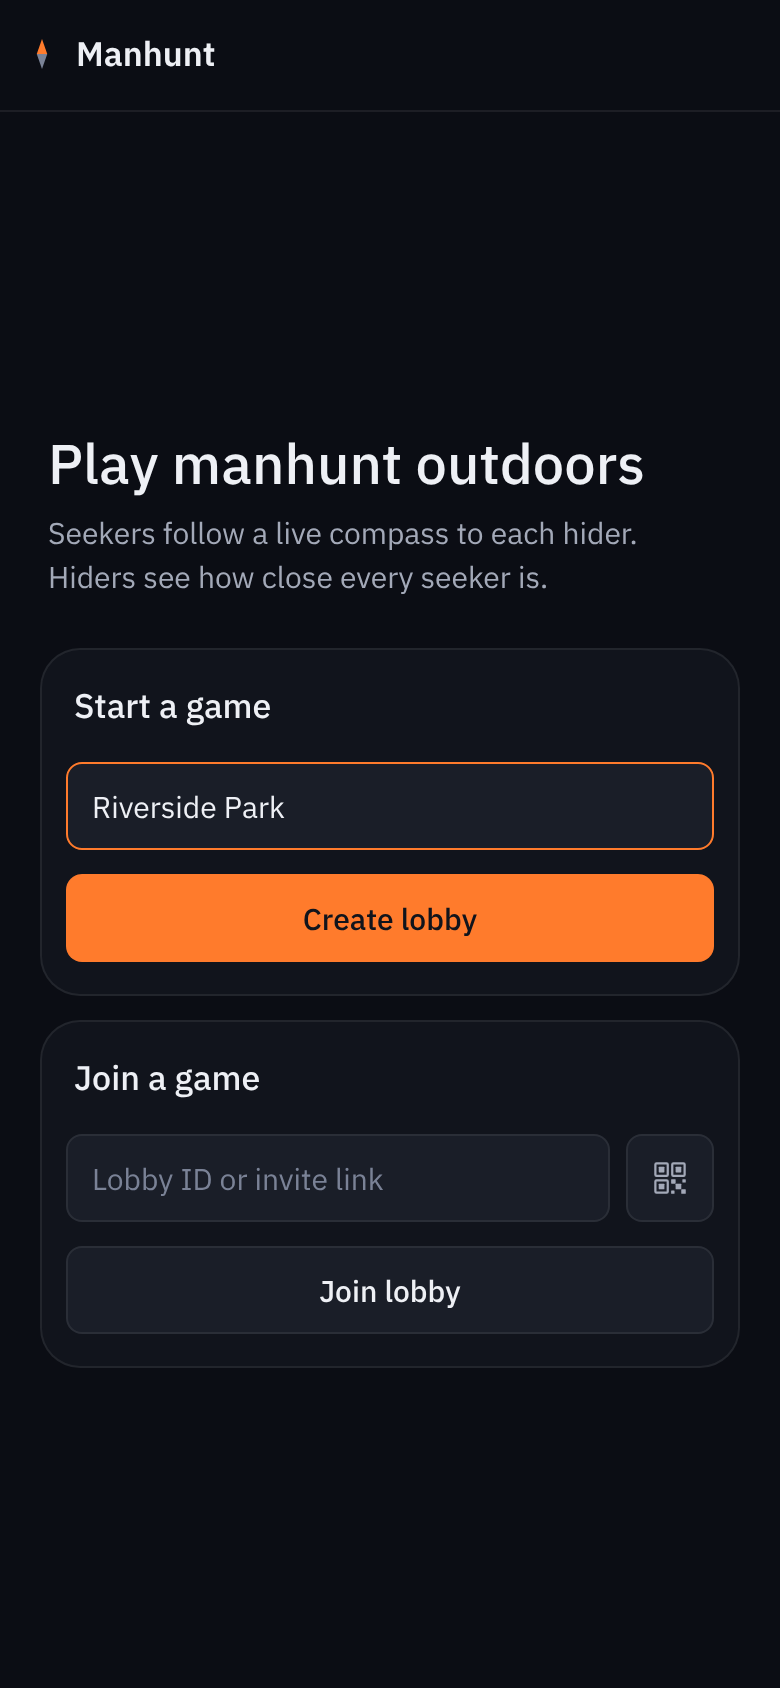
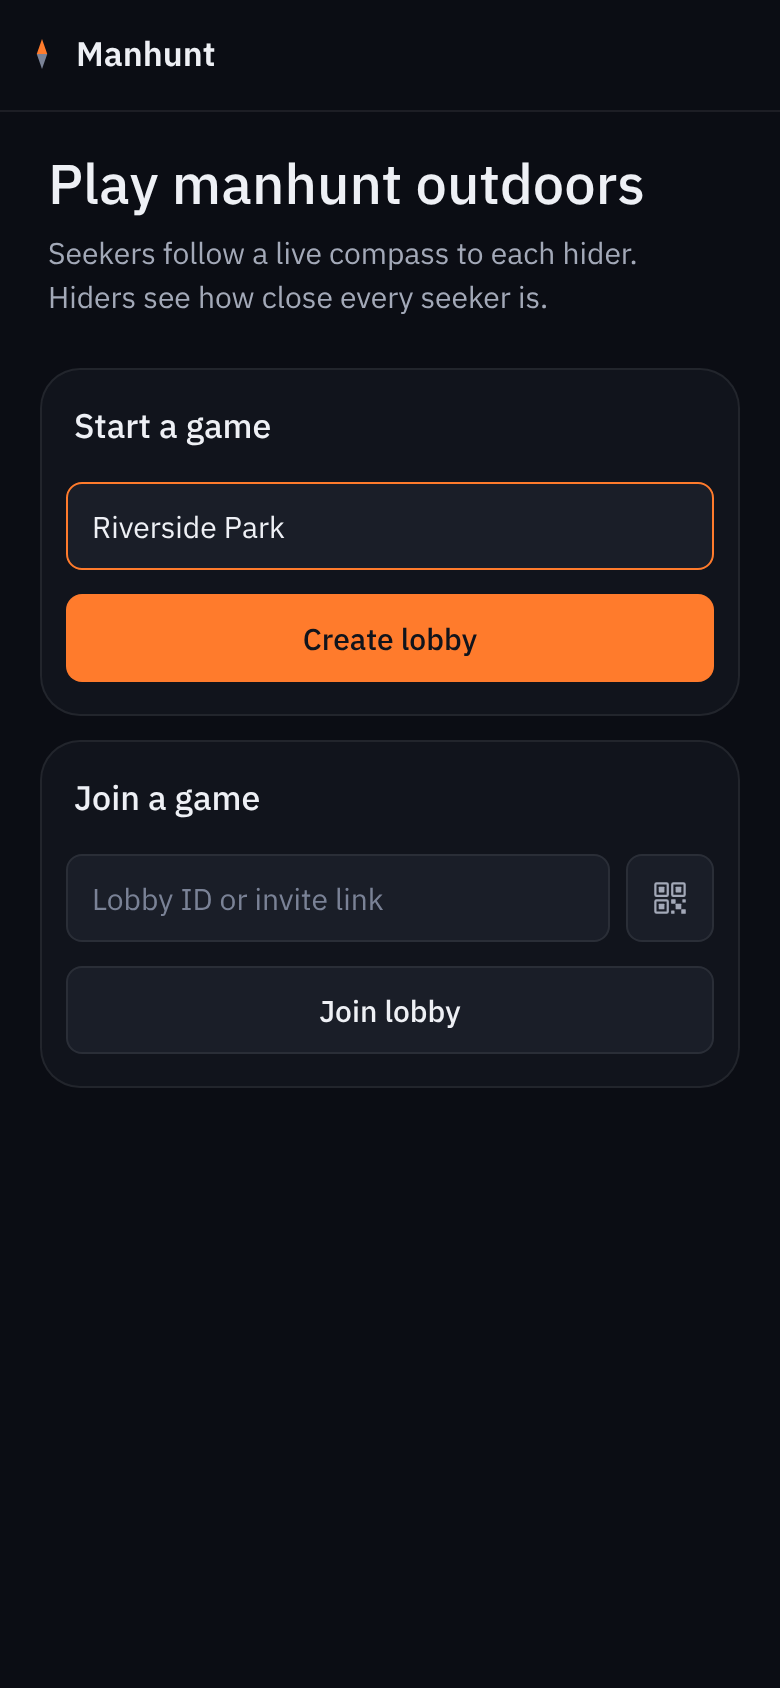
Top-align the landing page
The home column used the shared page-column layout, which centres it
vertically. It now starts under the toolbar; loading and error pages stay
centred. Updates the walkthrough's home screenshot.

Claude-Session: https://claude.ai/code/session_01U4L74gDXuUMueiJ4CSkGKG

diff --git a/src/pages/Home.jsx b/src/pages/Home.jsx
@@ -72,7 +72,7 @@ function Home()
                 </IonToolbar>
             </IonHeader>
             <IonContent className="ion-padding">
-                <div className="home-center page-column">
+                <div className="home-center">
                 <header className="home-intro">
                     <h1>Play manhunt outdoors</h1>
                     <p>
